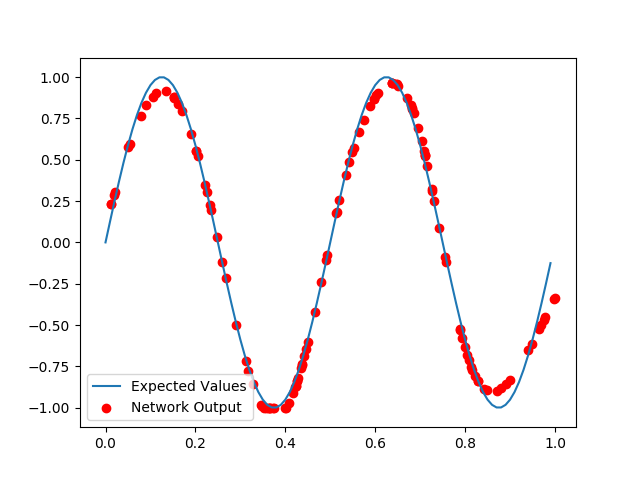
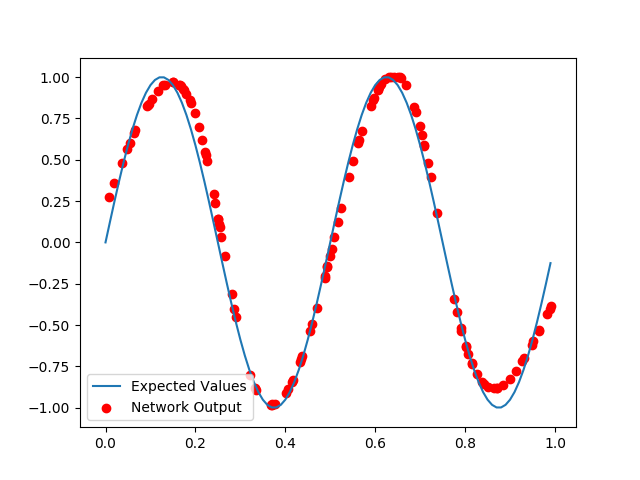
train test/training iteration

diff --git a/train_test_network.py b/train_test_network.py
@@ -7,16 +7,10 @@ import matplotlib.pyplot as plt
 
 
 def target_function(x):
-    # add 1.0 to make all outputs positive
     # multiply input by 2*np.pi to force all outputs to
     # a [0,1] range
-    # multiply by 0.5 to reduce all output from [0,2]
-    # to [0,1]
-    # return (1.0 + np.sin(2*2 * np.pi * x)) * 0.5
 
     return np.sin(2 * 2 * np.pi * x)
-    # return np.cos(2 * np.pi * x)
-    # return - (x)**2 + 1
 
 
 def train_test_sin(network, num_passes=500, ratio=0.1, target_function=target_function):
@@ -73,10 +67,12 @@ if __name__ == "__main__":
     # epoch to epoch, reduce learning rate, to avoid bouncing
     # over global minima)
 
-    # TODO: allow each neuron to have its own, customized activation
-    # function
-
-    network = Network(shape=[1, 10, 25, 1], learning_rate=0.01)
+    network = Network(shape=[1, 10, 25, 1])
+    # set learning rate
+    network.learning_rate = 0.02
+    # set activation function of last layer to linear
+    for neuron in network.output_layer:
+        neuron.transfer = 'linear'
 
     errors = []
     num_epochs = 100

diff --git a/simple_neural_net.py b/simple_neural_net.py
@@ -14,7 +14,6 @@ import numpy as np
 # is the number of neurons in the layer previous to N, which
 # are connected to the neurons in layer N
 
-# TODO: dynamically set activation function
 # TODO: decrease learning rate proportionally to error
 
 
@@ -48,6 +47,15 @@ class Neuron:
         self.__transfer = self.ACTIVATIONS[activation_function]['function']
         self.__transfer_derivative = self.ACTIVATIONS[activation_function]['derivative']
 
+    @property 
+    def transfer(self):
+        return self.__transfer
+    
+    @transfer.setter
+    def transfer(self, activation_function):
+        self.__transfer = self.ACTIVATIONS[activation_function]['function']
+        self.__transfer_derivative = self.ACTIVATIONS[activation_function]['derivative']
+    
     @property
     def bias(self):
         return self.__bias
